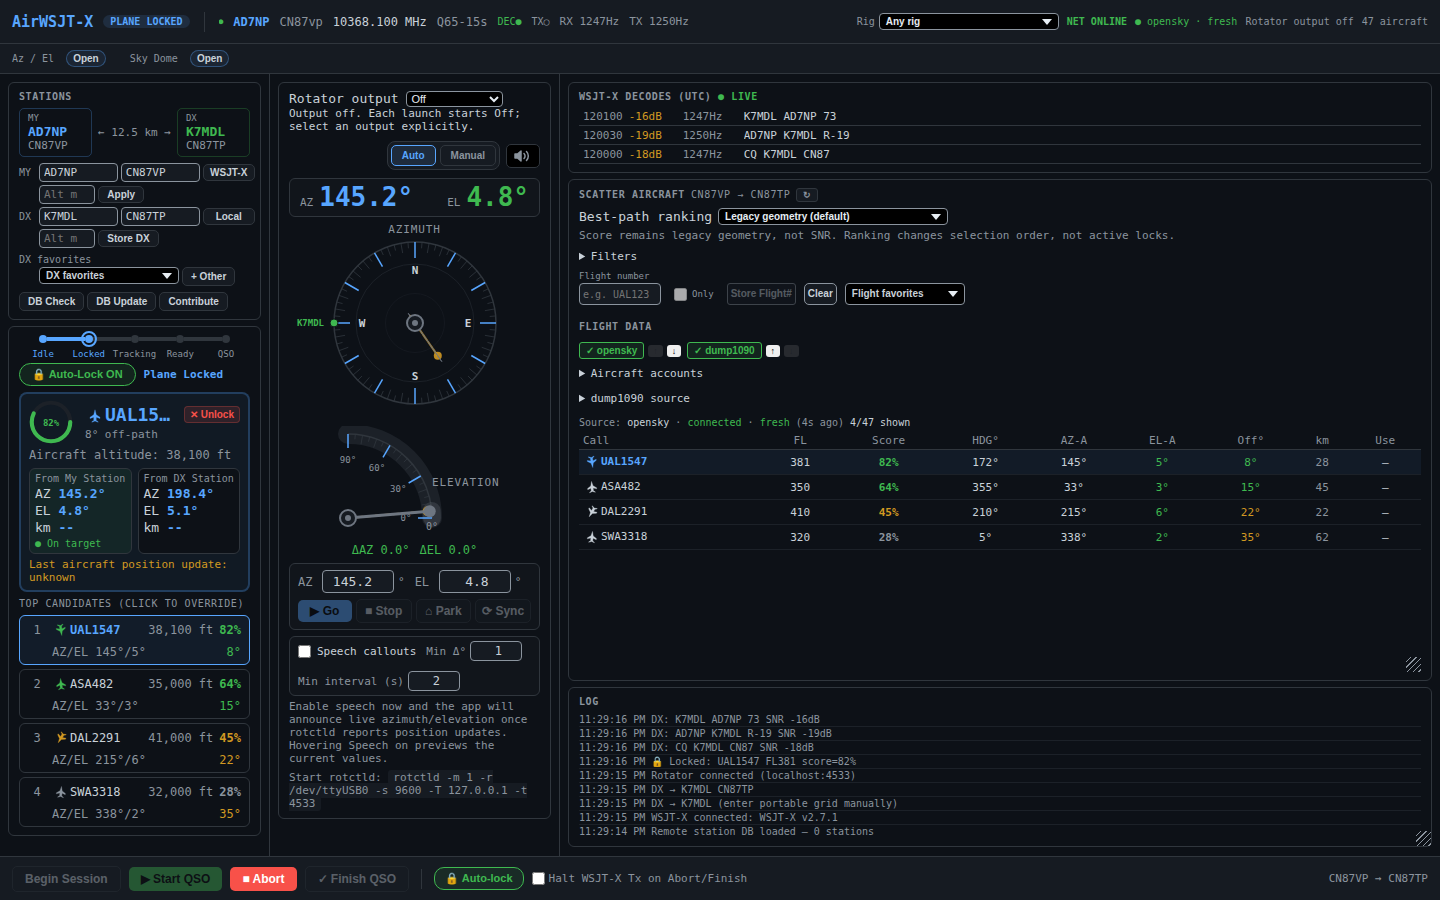
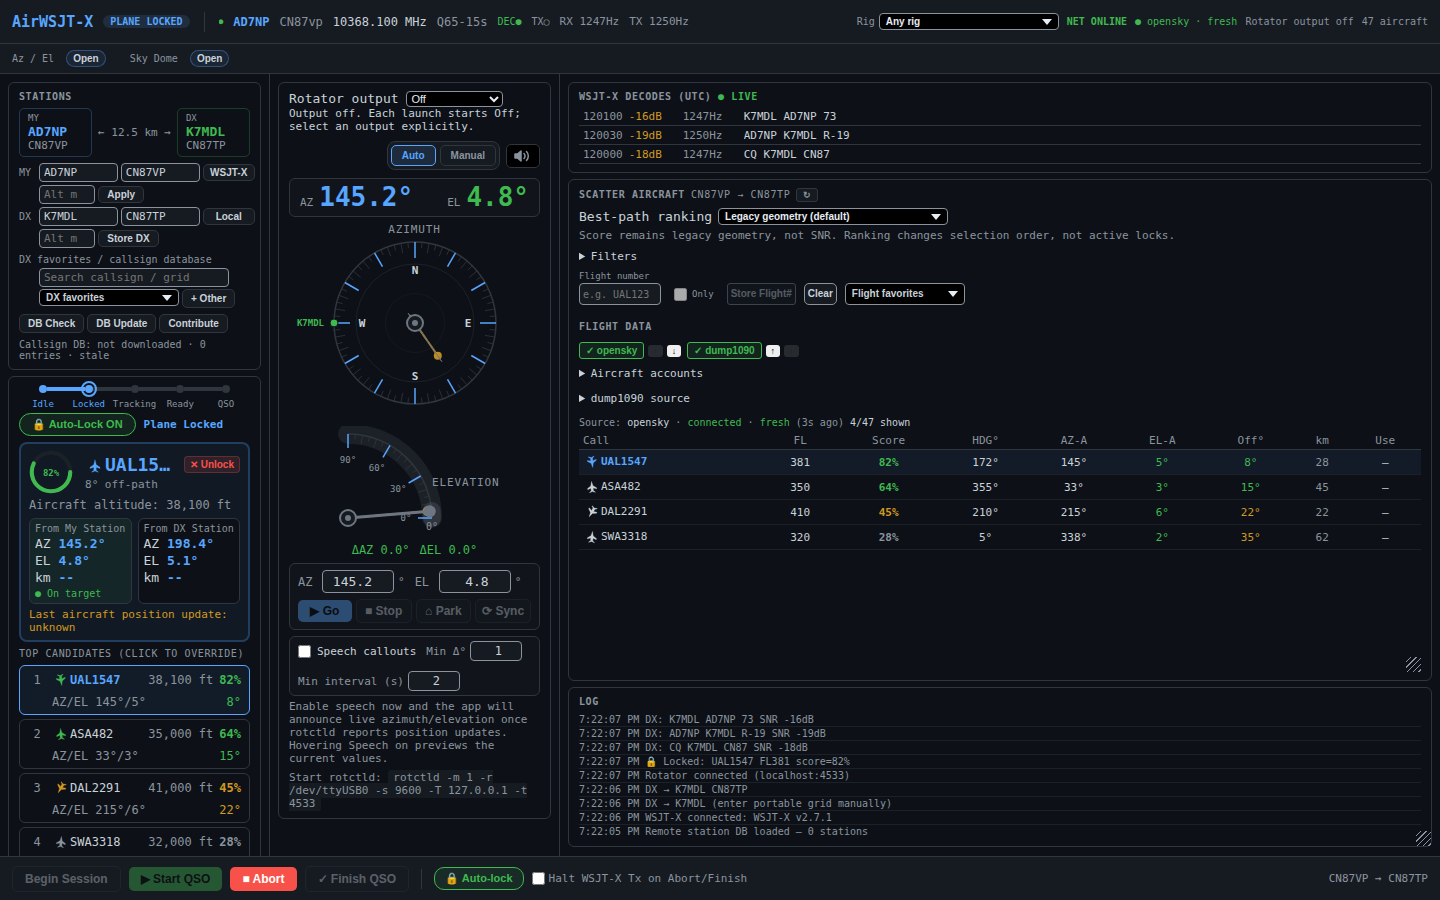
Fix Linux RTL-SDR busy dongle and desktop sidecar build errors (#159)
* Update screenshots from CI

* Update screenshots from CI

* Fix Linux RTL-SDR busy dongle and sidecar build errors

Enable DETACH_KERNEL_DRIVER in the bundled Linux librtlsdr build so a
dongle claimed by dvb_usb_rtl28xxu is detached automatically on open and
reattached on release, instead of discovery reporting it unavailable
with LIBUSB_ERROR_BUSY. Update the Linux open-failure hint and replace
the README blacklist/unbind guidance accordingly.

Also make the desktop sidecar build's missing piper-tts failure print an
actionable install hint, and add the Linux-only piper-tts and voice
staging steps to the README build commands.

Verified on Linux x64 with an RTL2838: discovery reports the dongle
available with the full gain list, a live helper run decoded a
CRC-valid DF17 frame and reattached the kernel driver, and the full
desktop build-and-run task completes.

---------

Changed region(s): [[0.0, 0.28, 0.1875, 0.9644], [0.4062, 0.7778, 0.625, 0.9333]]

diff --git a/scripts/build-desktop-sidecar.js b/scripts/build-desktop-sidecar.js
@@ -28,7 +28,14 @@ if (rtlRuntime) {
     { cwd: root, stdio: "inherit" });
 }
 if (linux) {
-  execFileSync(python, ["-c", "import piper"], { cwd: root, stdio: "inherit" });
+  try {
+    execFileSync(python, ["-c", "import piper"], { cwd: root, stdio: "pipe" });
+  } catch {
+    throw new Error(
+      `Linux sidecar packaging bundles the Piper voice but ${python} cannot import piper. ` +
+      "Install it first: pip install piper-tts==1.8.0 (see README prerequisites).",
+    );
+  }
   execFileSync(python, [path.join(root, "scripts", "install_piper_voice.py")],
     { cwd: root, stdio: "inherit" });
 }

diff --git a/scripts/install_rtlsdr.py b/scripts/install_rtlsdr.py
@@ -105,6 +105,9 @@ def _build_linux_librtlsdr(source_zip: bytes, libusb_tar: bytes, output: Path) -
         exports.write_text("{ global: rtlsdr_*; local: *; };\n", encoding="ascii")
         subprocess.run([
             cc, "-O2", "-shared", "-fPIC", "-fvisibility=hidden", "-Drtlsdr_EXPORTS",
+            # Detach the kernel DVB driver (dvb_usb_rtl28xxu) on open, as distro builds do;
+            # without this, opening a dongle the kernel has claimed fails with LIBUSB_ERROR_BUSY.
+            "-DDETACH_KERNEL_DRIVER",
             "-I", str(rtl / "include"), "-I", str(prefix / "include" / "libusb-1.0"),
             *(str(rtl / "src" / name) for name in LIBRTLSDR_SOURCES),
             str(prefix / "lib" / "libusb-1.0.a"),

diff --git a/airwsjtx/rtlsdr.py b/airwsjtx/rtlsdr.py
@@ -134,7 +134,8 @@ def _list_devices(library: ctypes.CDLL) -> list[dict[str, object]]:
             message = (
                 f"Cannot open RTL-SDR receiver ({open_code}). Close other SDR apps and check USB"
                 + ("/WinUSB." if sys.platform == "win32" else
-                   " permissions (udev rule) or another SDR app/kernel DVB driver owning it."
+                   " permissions (udev rule) or another SDR app owning it; the kernel"
+                   " DVB driver is detached automatically."
                    if sys.platform.startswith("linux") else " (another SDR app may own it).")
             )
         else:

diff --git a/README.md b/README.md
@@ -178,15 +178,12 @@ SUBSYSTEM=="usb", ATTR{idVendor}=="0bda", ATTR{idProduct}=="2838", GROUP="plugde
 Run `sudo udevadm control --reload-rules`, unplug/replug the receiver, then retry
 discovery. Check that its `/dev/bus/usb/BBB/DDD` node is writable by your group.
 
-If `dvb_usb_rtl28xxu` has claimed the dongle, a permission rule alone will not
-release it. Close any DVB-TV/SDR application first. An administrator can
-temporarily unbind just the dongle's interface from that driver; do not unbind
-unrelated USB interfaces. For a dedicated ADS-B dongle, an alternative is to add
-`blacklist dvb_usb_rtl28xxu` to a file in `/etc/modprobe.d/` and **reboot before
-retrying**. Blacklisting alone does not unload an already-loaded driver.
-Blacklisting affects other receivers using that driver and prevents normal DVB-TV
-use; only do it if that tradeoff is intended. AirWSJT-X makes none of these host
-permission or driver changes itself.
+If `dvb_usb_rtl28xxu` has claimed the dongle, the bundled librtlsdr detaches it
+from the dongle automatically when the receiver is opened (standard librtlsdr
+behavior, as in distribution packages) and reattaches it when the receiver is
+released. No blacklisting or manual unbinding is required, but another SDR or
+DVB-TV **application** holding the dongle still blocks access; close it first.
+AirWSJT-X makes no persistent host permission or driver changes itself.
 
 If a USB error leaves the receiver helper blocked, the app reports the failure
 instead of claiming the device was released. Reconnect the dongle, stop the
@@ -473,7 +470,9 @@ On macOS and Linux:
 ```bash
 npm ci
 pip install pyinstaller certifi
+pip install piper-tts==1.8.0       # Linux only: required to bundle the Piper voice
 python scripts/install_rtlsdr.py   # macOS/Linux: builds the local RTL-SDR runtime (needs a C compiler and make)
+python scripts/install_piper_voice.py   # Linux only: stages the pinned Piper voice model
 python -m PyInstaller --noconfirm --clean --distpath src-tauri/binaries sidecar/airwsjtx_bridge.spec
 npx tauri build --config src-tauri/tauri.desktop.conf.json
 ```

diff --git a/CHANGELOG.md b/CHANGELOG.md
@@ -2,6 +2,9 @@
 
 ## Unreleased
 
+### Fixed
+- Enable kernel-driver detach in the bundled Linux librtlsdr so a dongle claimed by `dvb_usb_rtl28xxu` is opened automatically (and the driver reattached on release) instead of reporting the receiver as unavailable/busy; no blacklisting or manual unbinding is needed.
+
 ### Changed
 - Replace the robotic Linux Speech Dispatcher/eSpeak default with a bundled Piper US-English neural voice. Keep the model loaded in an app-owned worker for responsive Az/El callouts and isolated cancellation; retain the old native engines only as fallback.
 - Bundle the pinned voice model, model card, Piper license and corresponding source archive in Linux packages, with SHA-256 verification during staging.
